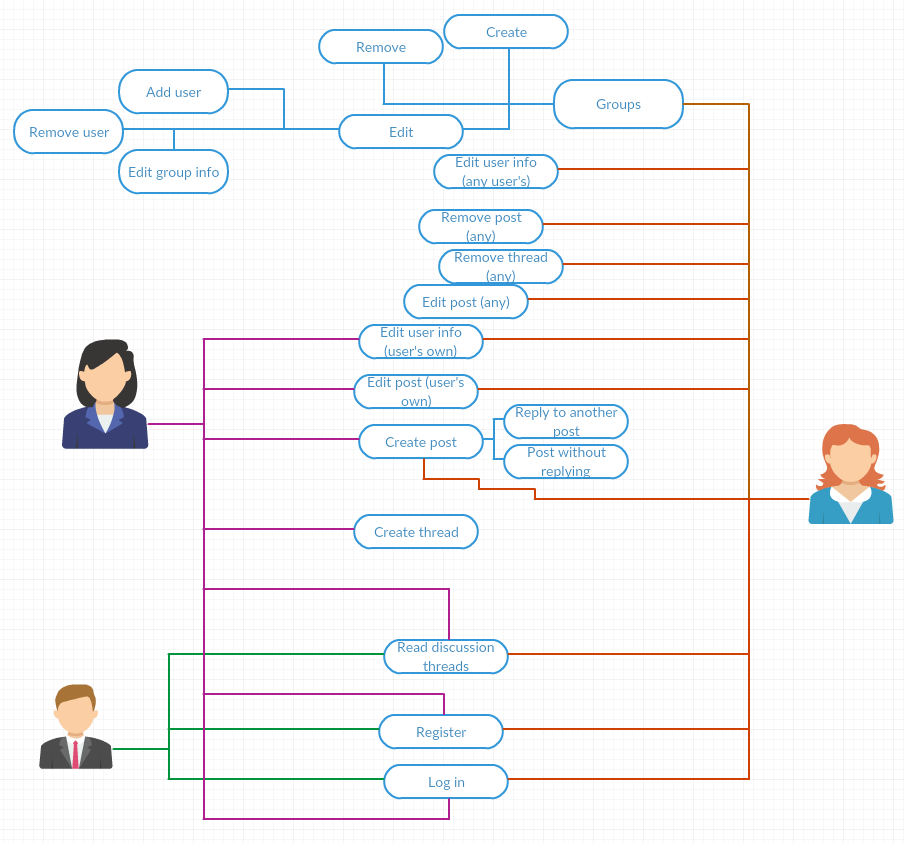
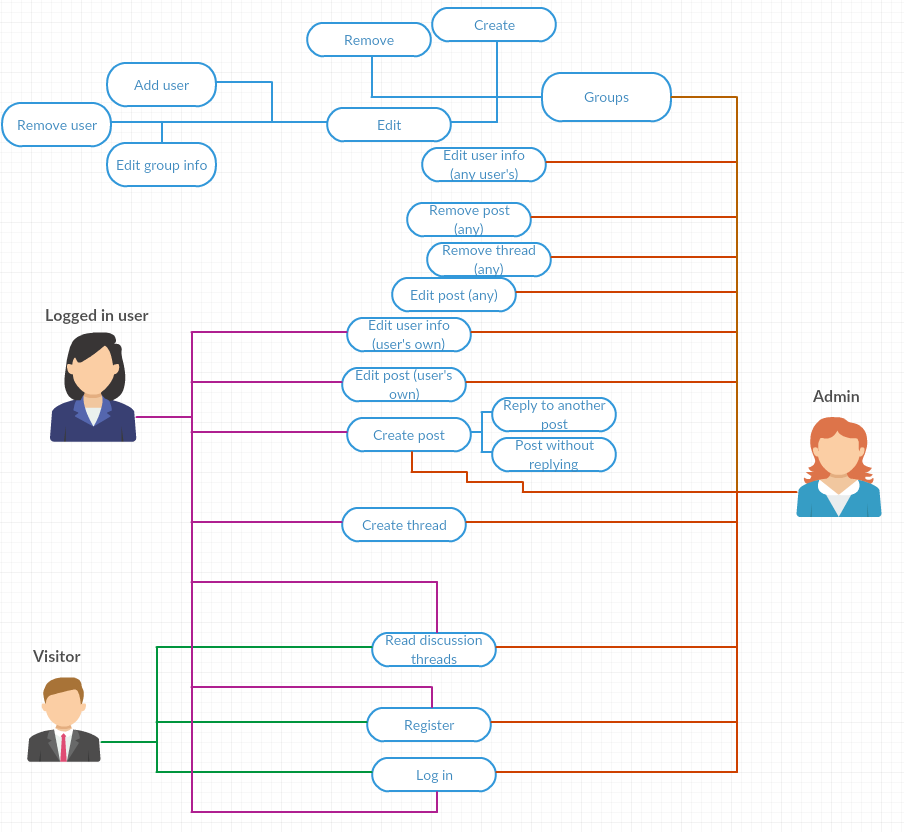
updated project description

diff --git a/doc/documentation.md b/doc/documentation.md
@@ -1,15 +1,14 @@
 # Introduction
 
-This app is for a discussion forum, written with PHP using PostgreSQL as the database. The application runs at the users.cs.helsinki.fi server of the Department of Computer science of University of Helsinki.
+This app is for a discussion forum database application, written with PHP using PostgreSQL as the database. The application runs at the users.cs.helsinki.fi server of the Department of Computer science of University of Helsinki.
 
-People can create new posts and read existing ones. Posts can be replies to another post.
+# Project description
 
-Posts can be searched by the poster's name or by the subject or age of the post. Readers can also follow the reply chain.
-By default only posts young enough are shown, along with information on whether or not the reader or other people of the community have read it. This information is viewable by any reader. Readers always identify themselves.
+The key function of the forum is to have discussion threads that can contain multiple posts. Any non logged in user (from now on referring to them as 'visitors' in this document) can read any of these threads and posts and also register and log in. Logged in users can also create new threads and posts. Users can edit their own posts and see and edit their user info. Posts can be replies to another post. Users can also see each other's user info.
 
-The administrator of the system has their own user interface through which they can administrate the user information of the users and what groups they belong to. They can also clean up the database and define topics the posts can be grouped by.
+Admin users can remove and edit posts made by anyone. They can also delete threads completely and edit user info of any user. Besides that, they can also handle various functions related to groups - create, remove and edit them. By editing a group, they can change the group info and add and remove users.
 
 # Use cases
 
-![Use cases](/use_case_diagram.png)
+![Use cases](./use_case_diagram.png)
 _Done with [creatly](http://creately.com/)_
